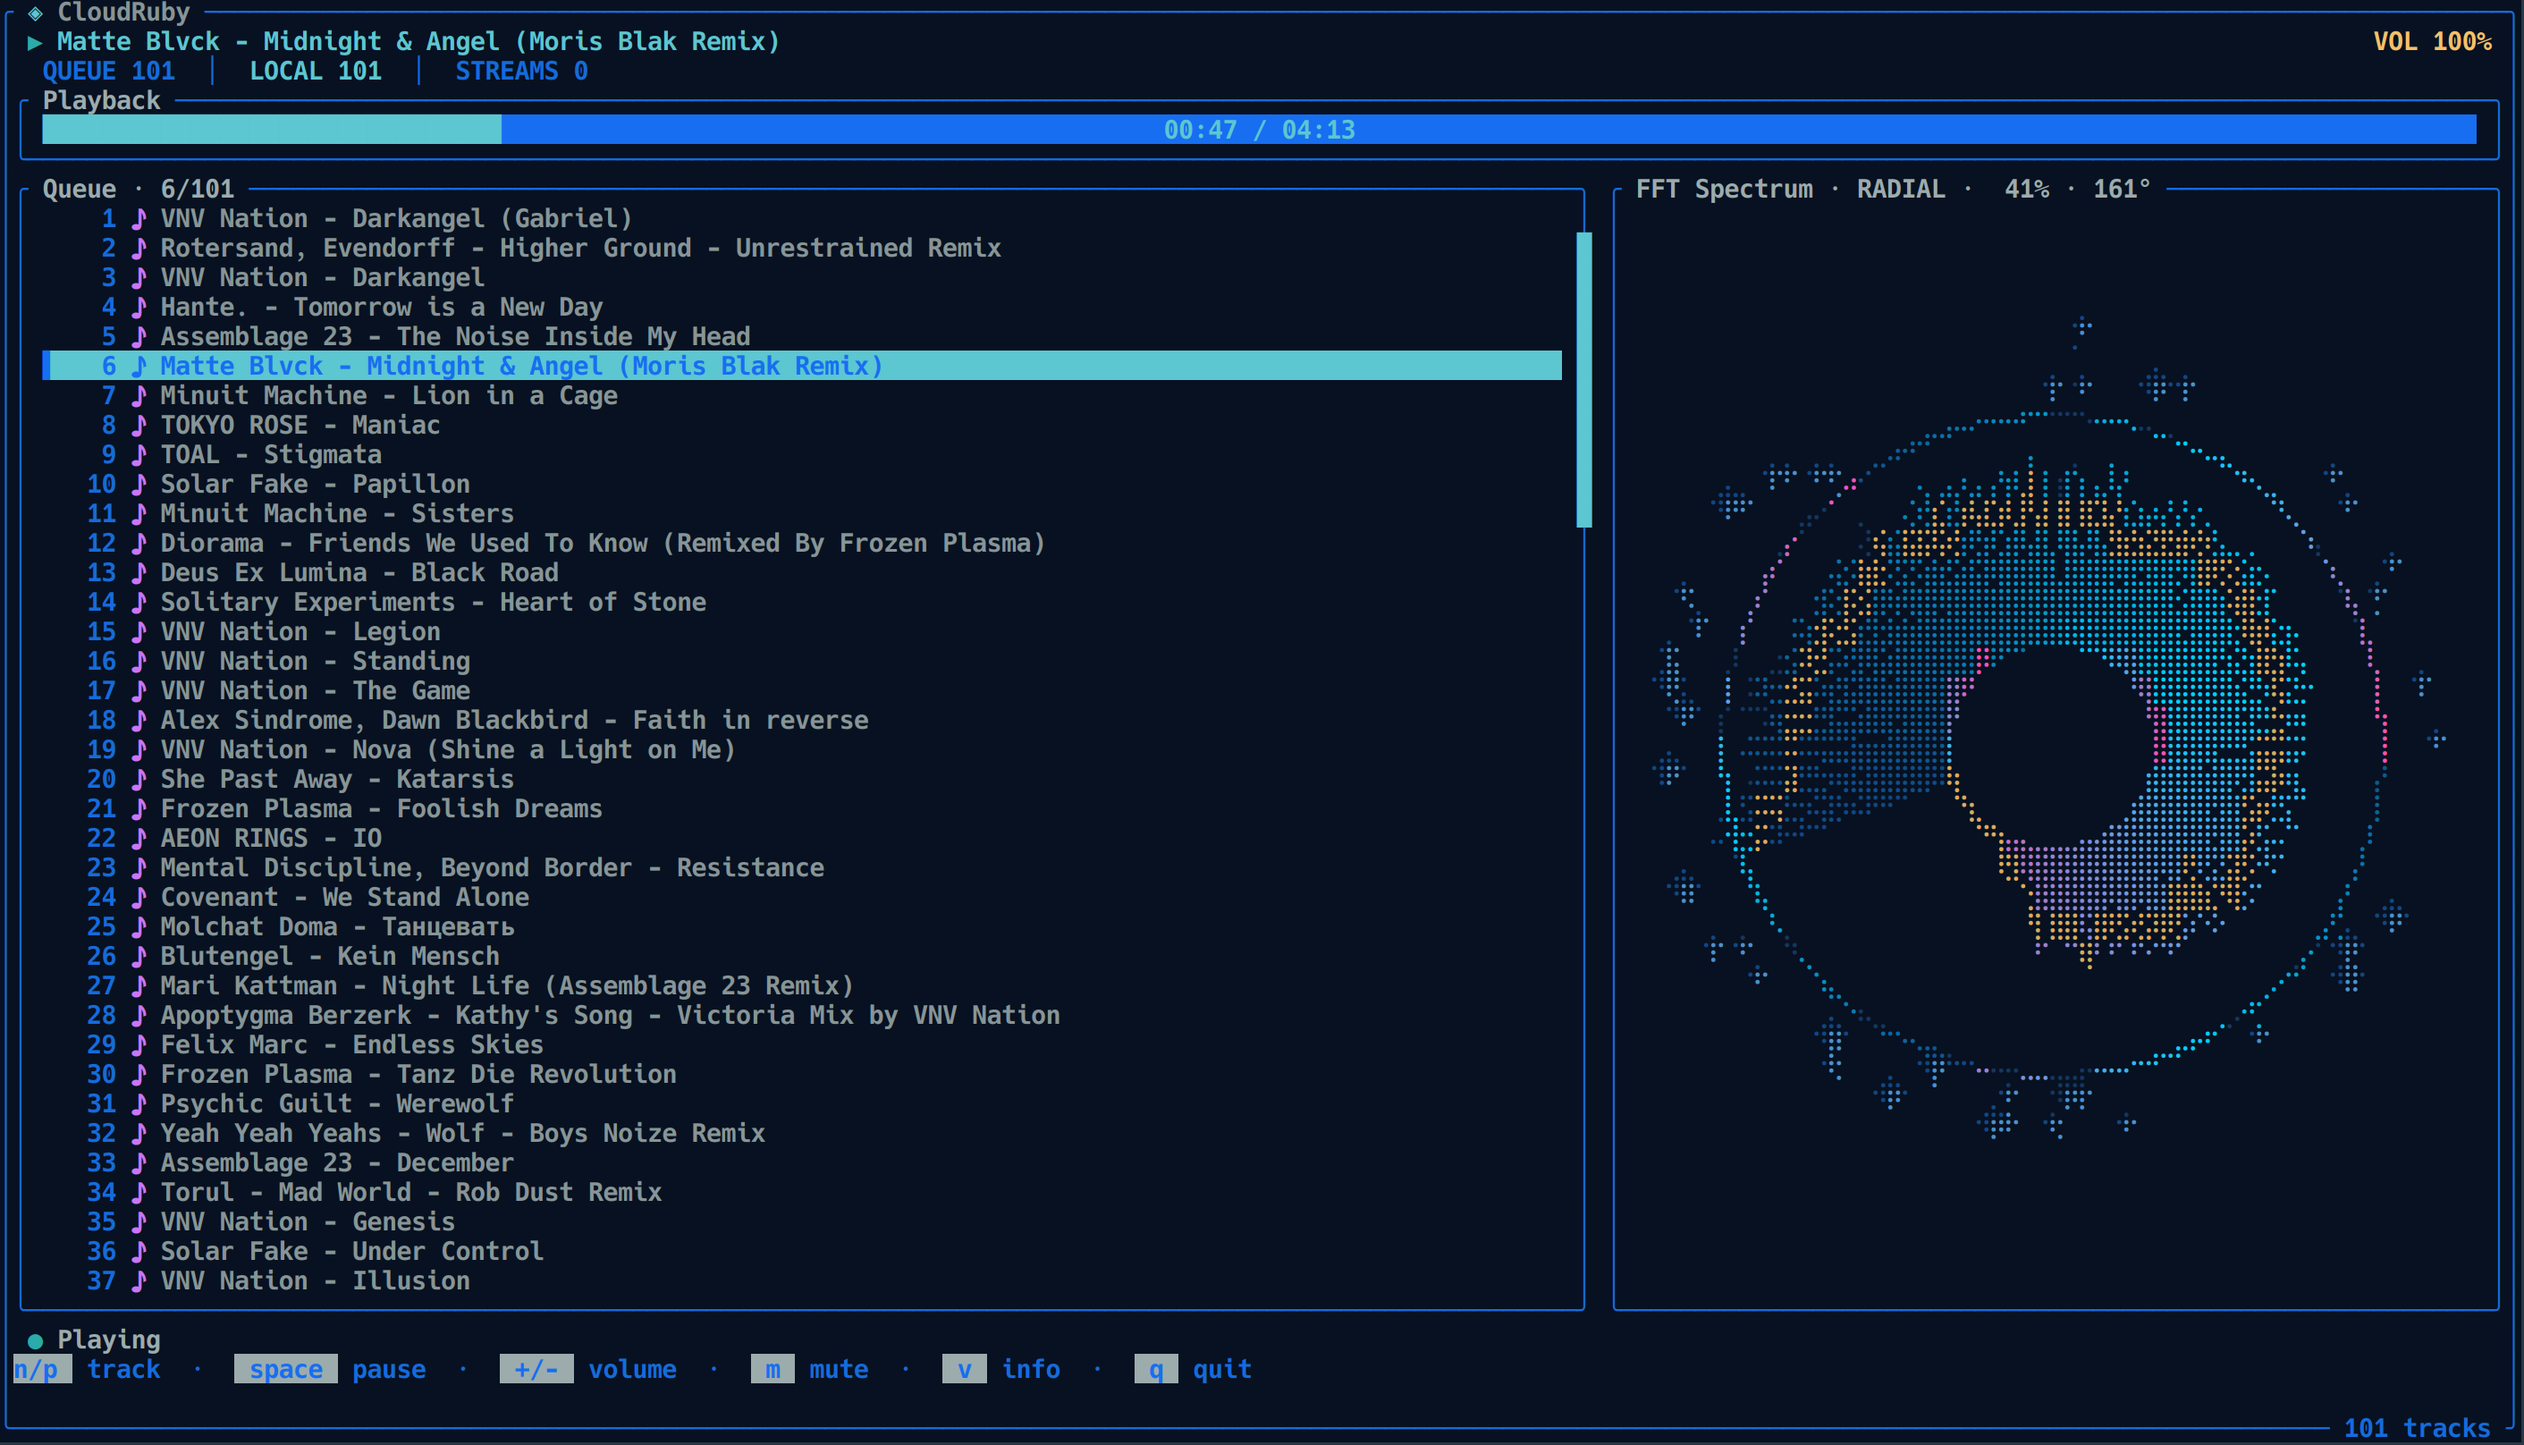
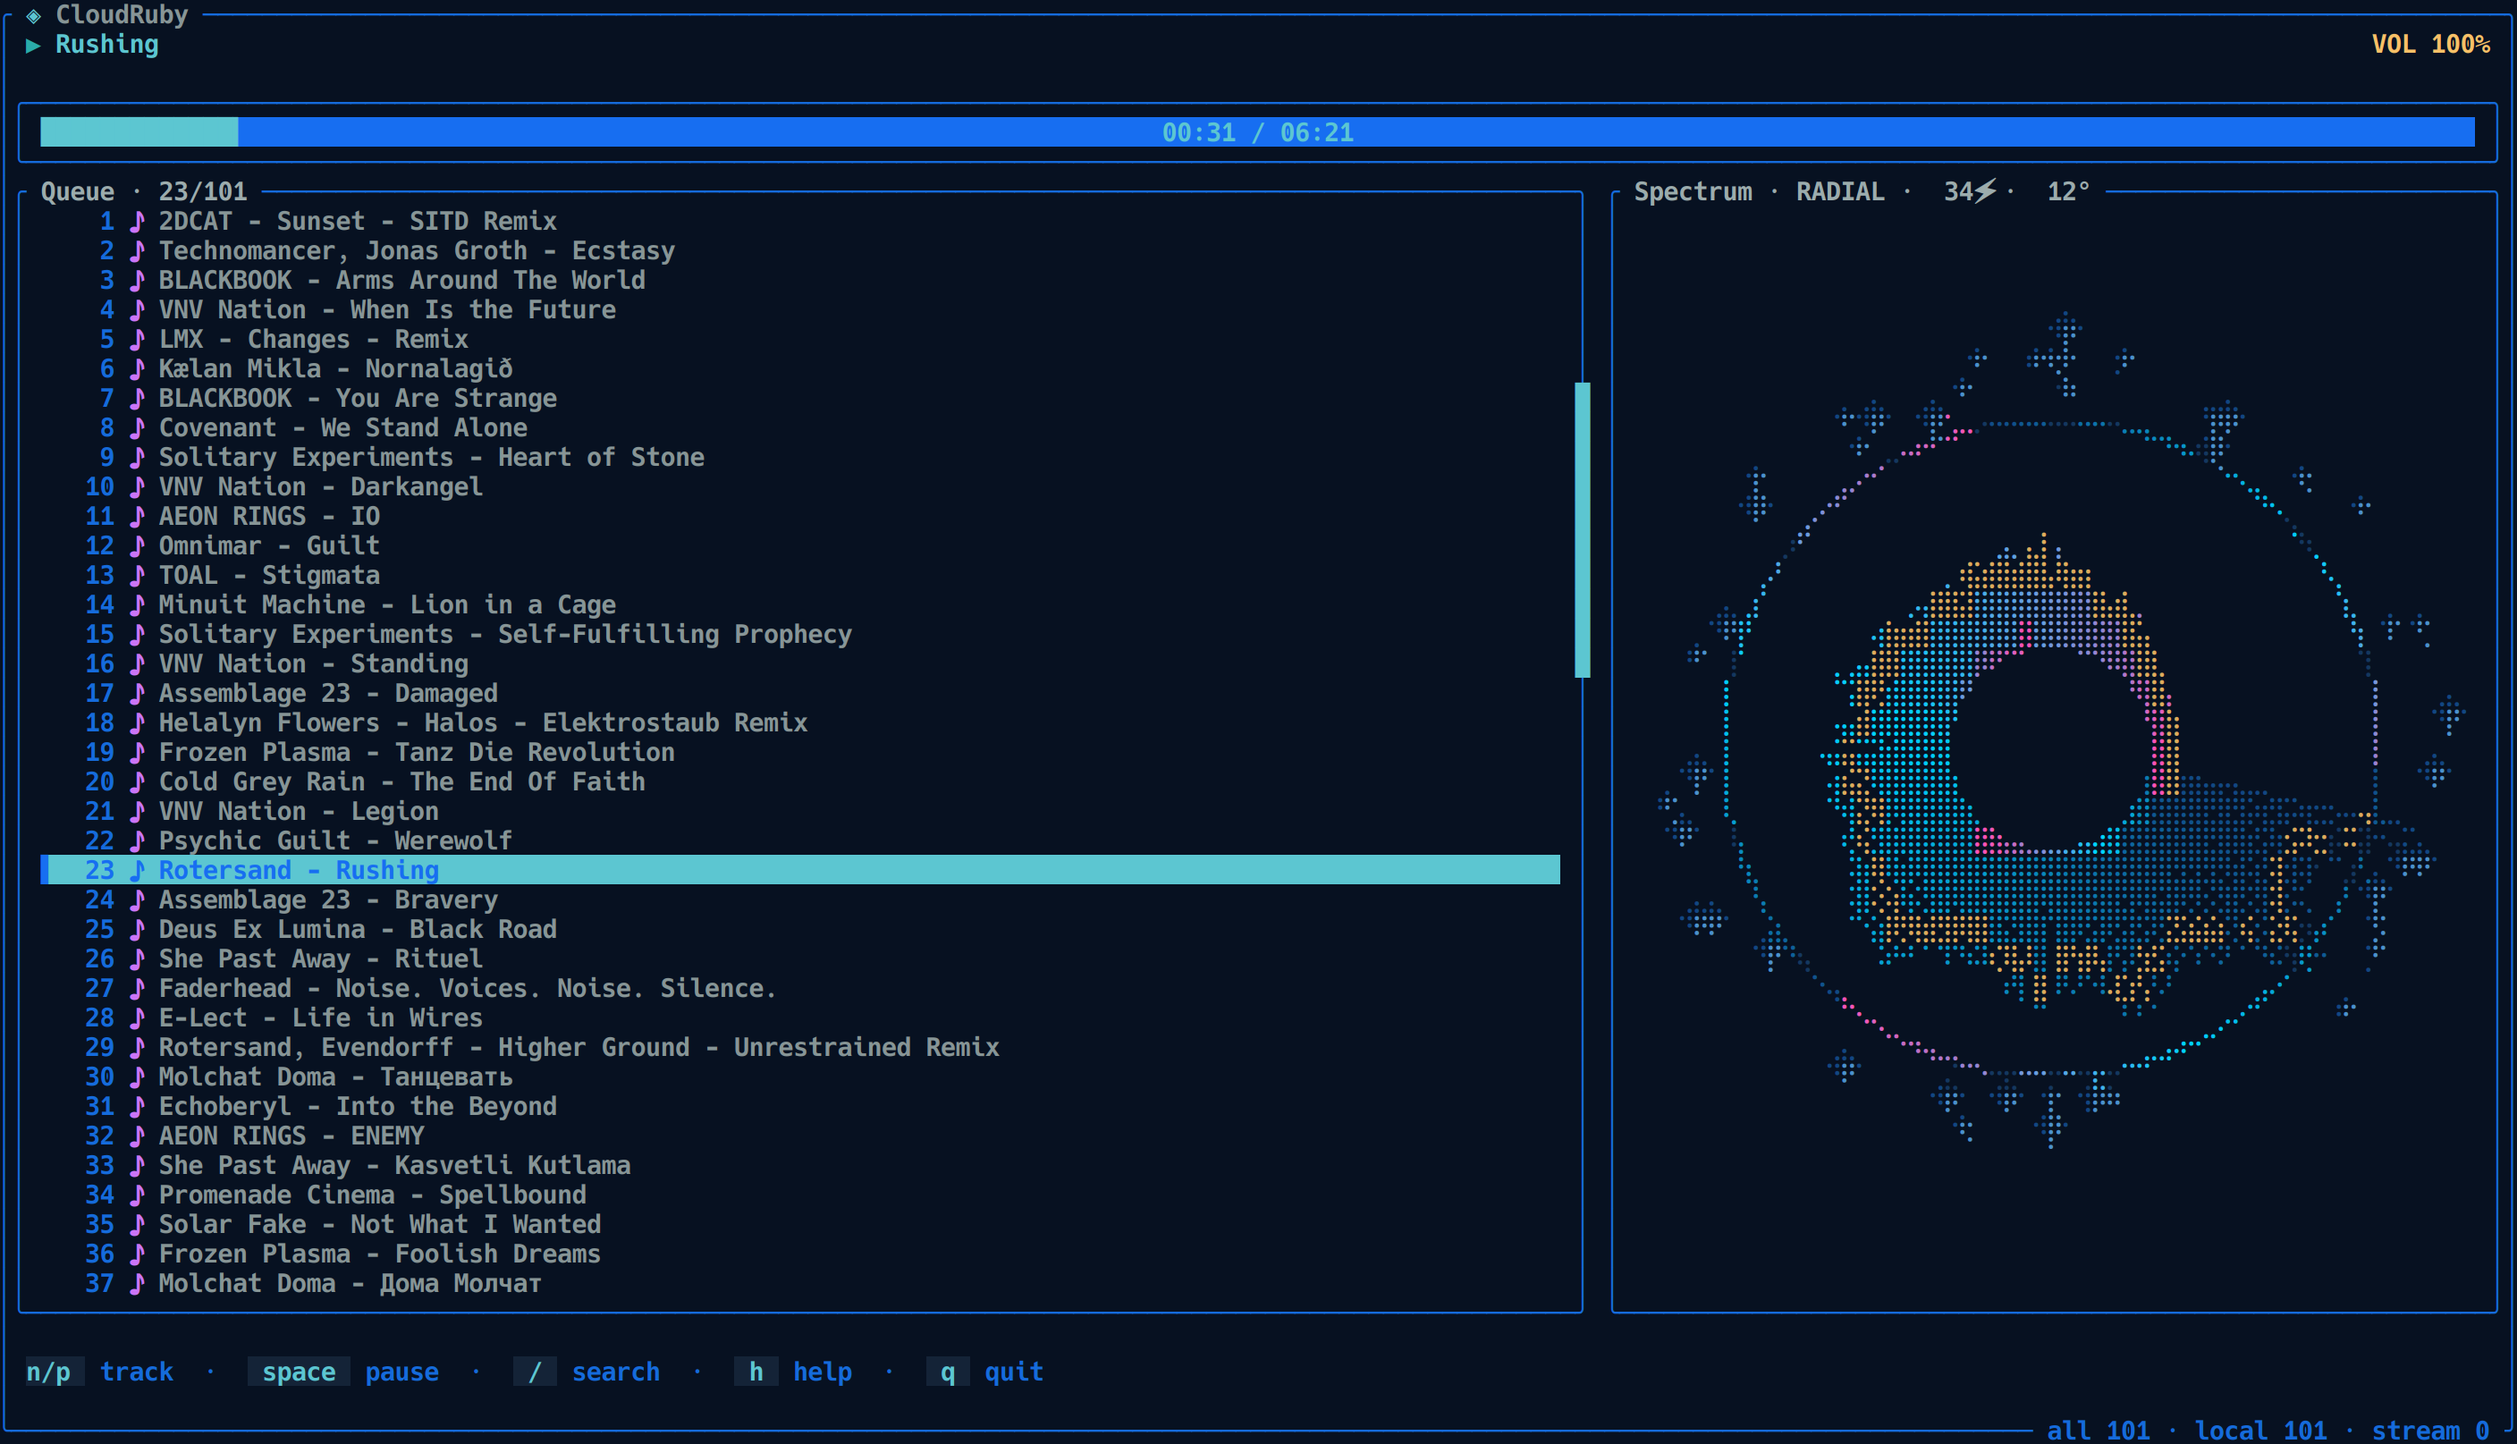
docs: update README demo media and screenshot

Changed region(s): [[0.0, 0.0, 1.0, 1.0], [0.7108, 0.6811, 0.8345, 0.774], [0.8963, 0.3406, 0.9272, 0.3715]]

diff --git a/README.md b/README.md
@@ -128,7 +128,7 @@ Command-line sources replace configured sources for that run. See
 
 
 
-![Terminal: Konsole, Font: Hack 14pt](doc/anim_1.gif?raw=true "Figure 1")
+![Terminal: Konsole, Font: Hack 14pt](doc/anim_1.webp?raw=true "Figure 1")
 
 ![Terminal: Konsole, Font: Hack 14pt](doc/screenshot_1.png?raw=true "Figure 2")
 
